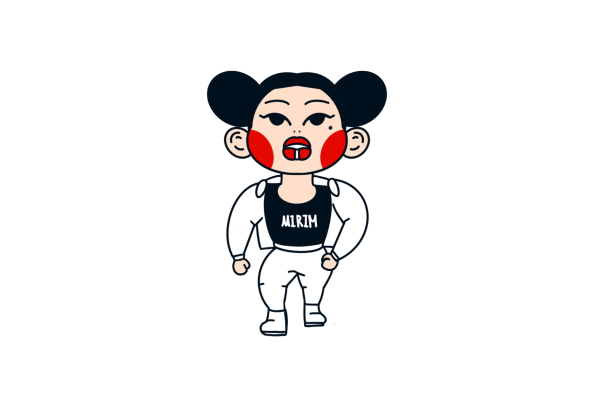
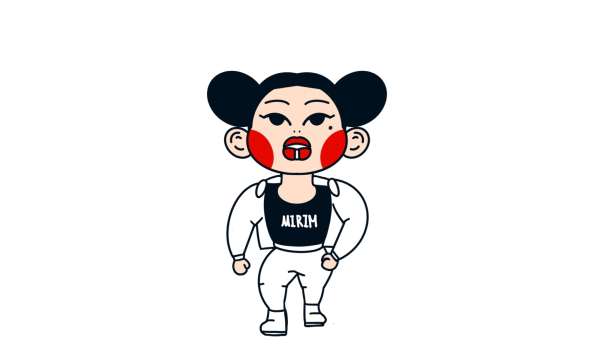
effect 수정
꽃가루 효과, 음표효과 추가함!

Changed region(s): [[0.3362, 0.1479, 0.6723, 1.0]]

diff --git a/src/public/js/game.js b/src/public/js/game.js
@@ -1,3 +1,10 @@
+//복사 방지
+window.addEventListener("copy", (e) => {
+    alert("정정당당히 경쟁해라!");
+    e.preventDefault();
+    e.clipboardData.clearData("Text"); // 클립보드에 저장된 컨텐츠 삭제
+});
+
 // 오디오
 let playbtn=document.querySelector("#playbtn");
 let musicimg=document.querySelector(".btnimg");
@@ -44,7 +51,10 @@ const x =
 `<!DOCTYPE html>
 <html lang="en">
 <meta http-equiv="X-UA-Compatible" content="IE=edge">
-<meta name="viewport" content="width=device-width, initial-scale=1.0">`;
+<meta name="viewport" content="width=device-width, initial-scale=1.0">
+<meta http-equiv="X-UA-Compatible" content="IE=edge">
+<meta http-equiv="X-UA-Compatible" content="IE=edge">
+<meta http-equiv="X-UA-Compatible" content="IE=edge">`;
 
 let startWord = 'start';
 
@@ -57,18 +67,29 @@ let text = document.querySelector('.word-display'); // 타자미리보기
 let input = document.querySelector('.word-input'); //타자치는곳
 let NowText=document.querySelector('.NowText'); // 현재 타자치는 부분
 let TotalText=document.querySelector('.TotalText');// 타자 총 수
+let endingbtn=document.querySelector('.ending'); // ending 버튼
 /*effect 조명 */
 let effect1=document.querySelector('#b1');
 let effect2=document.querySelector('#b2');
 let effect3=document.querySelector('#b3');
+/*effect 꽃가루 */
+let effect4_1=document.querySelector('#b4_1');
+let effect4_2=document.querySelector('#b4_2');
+/*effect 음표효과 */
+let effect5=document.querySelector('#b5');
 
 let charEls = [];
-let order = 0;
+let order = -1;
 
 TotalText.innerHTML=str.length;
 effect1.hidden=true;
 effect2.hidden=true;
 effect3.hidden=true;
+effect4_1.hidden=true;
+effect4_2.hidden=true;
+effect5.hidden=true;
+// endingbtn.hidden=true;
+
 changeWord();
 function letmeStart(){
     if(input==startWord){
@@ -85,7 +106,12 @@ function changeWord(){
     if(order != str.length){
         populateText(str[order]);
     }else{
-        alert("끝")
+        // alert("끝")
+        effect4_1.hidden=false;
+        effect4_2.hidden=false;
+        effect5.hidden=true;
+        ClapSound.play();
+        endingbtn.hidden=false;
     }
     effect(order)
     NowText.innerHTML=order;
@@ -94,9 +120,13 @@ function effect(order){
     if(order==2){
         effect1.hidden=false;
         ClapSound.play();
-    }else if(order==3){
+    }else if(order==4){
         effect2.hidden=false;
         effect3.hidden=false;
+        ClapSound.play();
+    }else if(order==6){
+        effect1.hidden=true;
+        effect5.hidden=false;
         ClapSound.play();
     }
 }
@@ -180,3 +210,6 @@ input.addEventListener("keyup", () => {
     }
 })
 
+function move(){
+    location.href="http://localhost:3002/ranking";
+}

diff --git a/src/public/css/game.css b/src/public/css/game.css
@@ -204,25 +204,36 @@ body{
     }
 }
 
-#effect2{
-    position: absolute;
-    transform: scaleX(-1);
-    left: 470px;
-    bottom: 100px;
-}
+/*transform: scaleX(-1);*/
 
 /*캐릭터*/
 #mychar{
     position: absolute;
-    width: 450px;
-    height: 330px;
-    margin-left: 310px;
-    margin-top: 250px;
+    width: 350px;
+    height: 250px;
+    margin-left: 360px;
+    margin-top: 300px;
 }
 #youchar{
     position: absolute;
-    width: 450px;
-    height: 360px;
+    width: 350px;
+    height: 250px;
     margin-left: 750px;
-    margin-top: 250px;
+    margin-top: 310px;
+}
+
+/*ending btn*/
+.ending{
+    box-shadow: 0 0 2px rgb(234 57 184 / 90%), 0 0 4px rgb(234 57 184 / 40%), 0 0 1rem rgb(234 57 184 / 30%), 0 0 4rem rgb(234 57 184 / 10%);
+    border-color: #ea39b8;
+    background-color: purple;
+    border-radius: 50%;
+    padding: 10px;
+    padding-left: 15px;
+    position: absolute;
+    right: 10px;
+    bottom: 30px;
+}
+.ending:hover{
+    background-color: red;
 }
